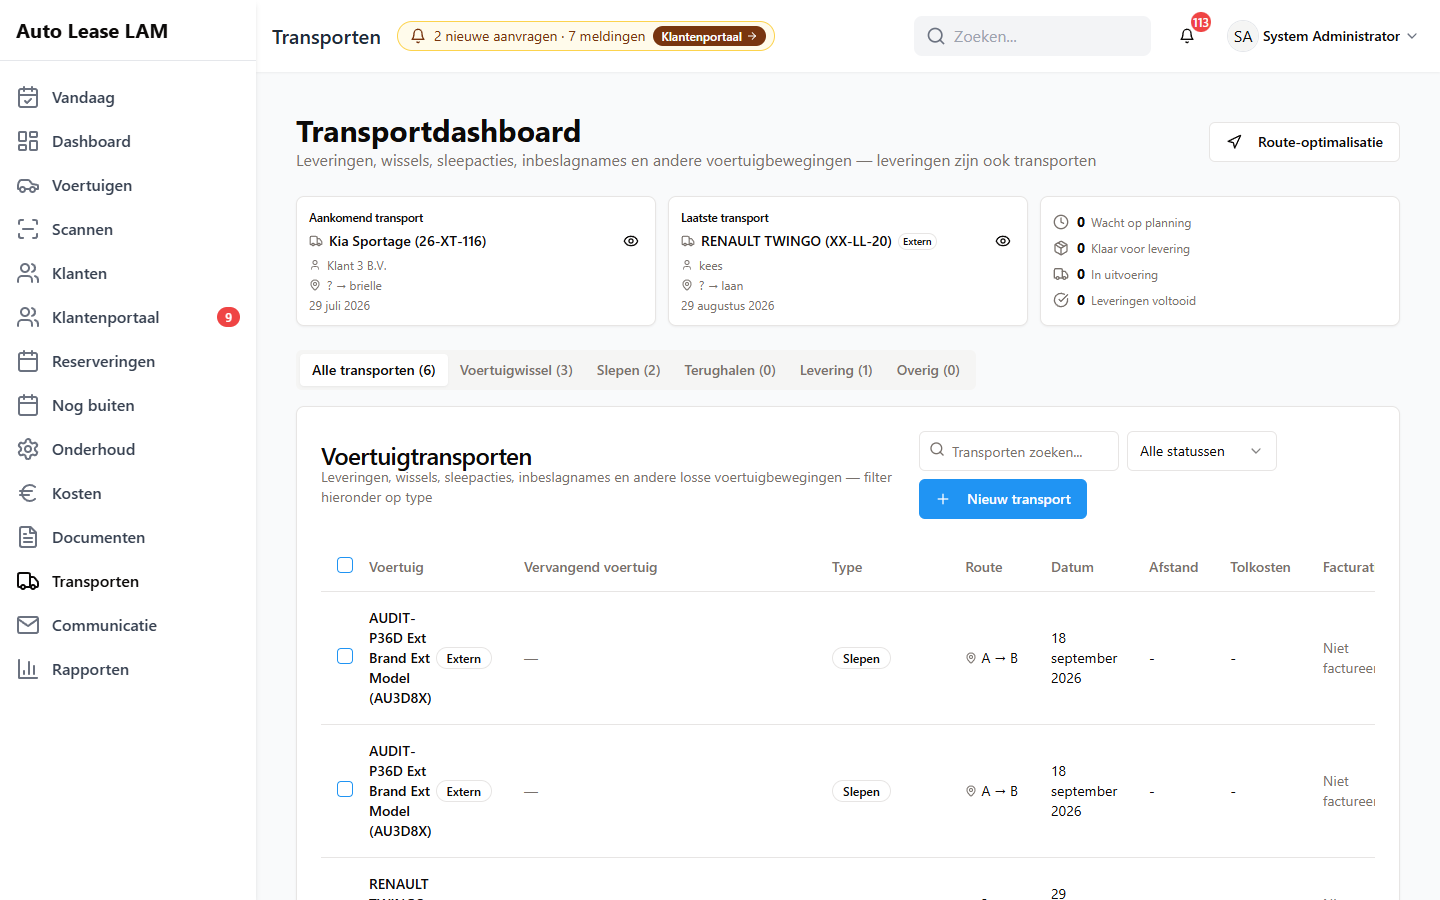
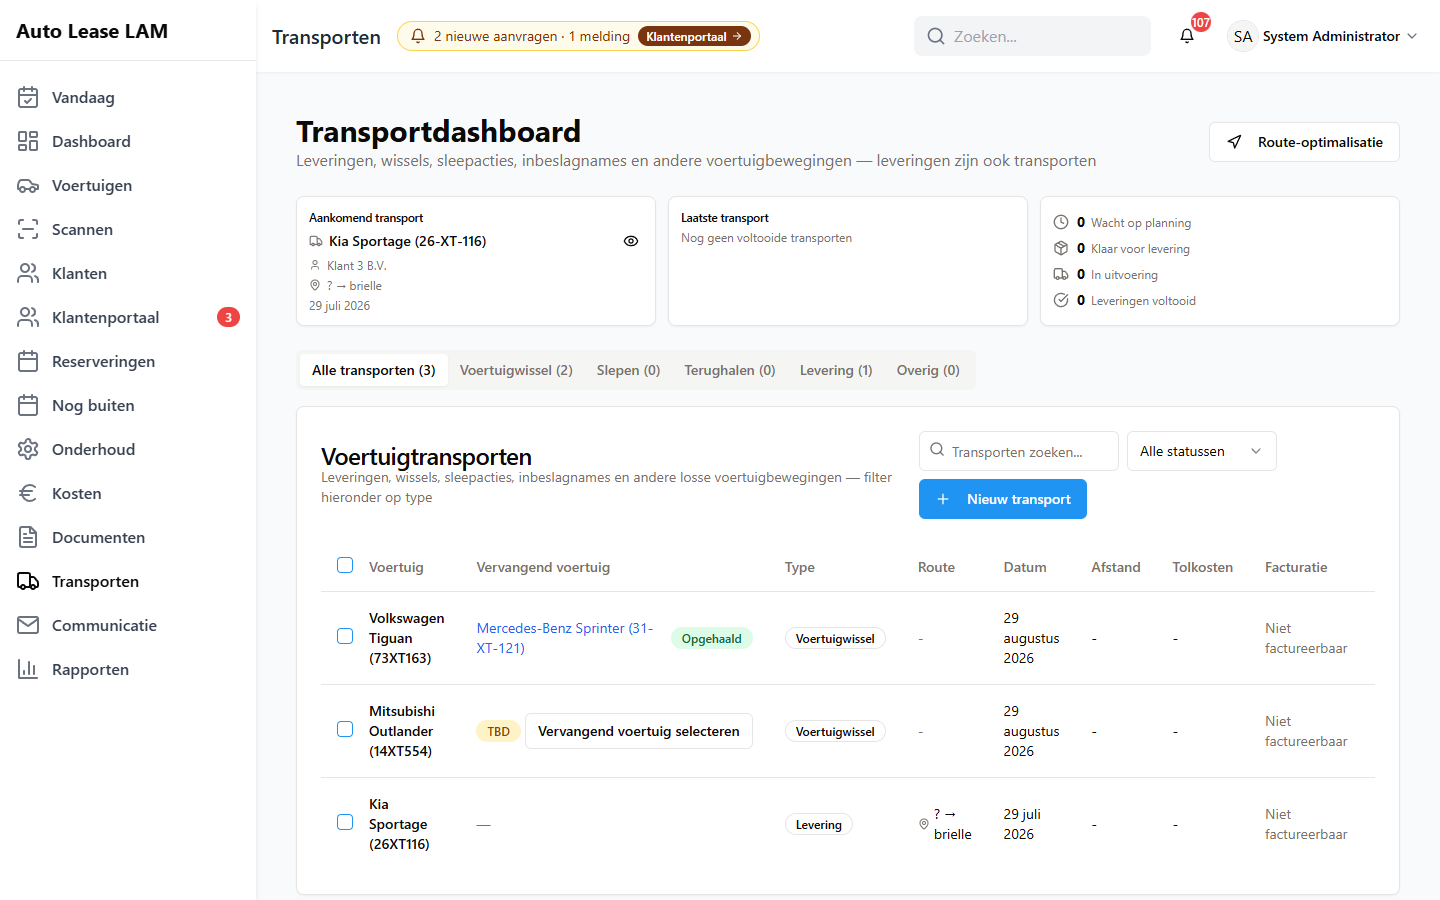
docs(handleiding): schermafbeeldingen opnieuw gemaakt op schone voorbeeldgegevens
De eerste reeks was gemaakt terwijl de audit-fixtures nog in de kloon stonden en
terwijl een paar schermen nog laadden. De fixtures zijn uit de kloon verwijderd,
de wachttijden verhoogd, en het scanscherm staat er nu ook op (hoofdstuk 18).

diff --git a/docs/gebruikershandleiding/18-barcode-en-scannen.md b/docs/gebruikershandleiding/18-barcode-en-scannen.md
@@ -24,6 +24,8 @@ de code handmatig.*
 Op het scherm staan een invoerveld, de knop **Zoeken**, een cameraknopje en onderaan het blok
 **Recente scans**.
 
+![Het scanscherm met het invoerveld, de knop Zoeken en het blok Recente scans](afbeeldingen/10-scannen.png)
+
 **Met een USB-scanner.** Een barcodescanner gedraagt zich als een toetsenbord: hij typt de code
 en drukt zelf op Enter. Zorg dat de cursor in het invoerveld staat (klik er één keer in) en scan.
 Je hoeft verder niets te doen.
